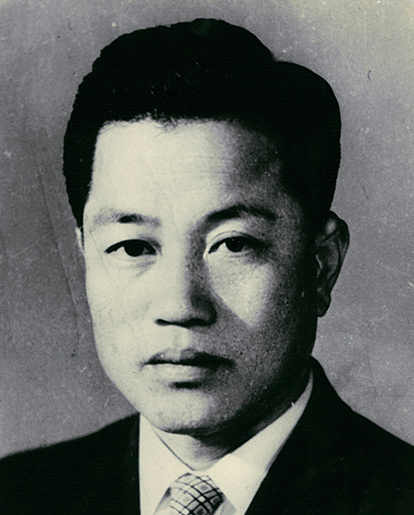
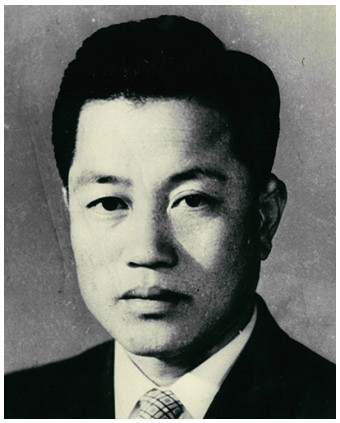
역대 동창회장 사진-이름 재매칭 및 인물 단위 그룹화, 공간구상 벽 그룹 정리
- 동창회장.pdf 원본 기준으로 c04부터 어긋나 있던 동창회장 초상 27장 재크롭
- 역대 동창회 그리드를 PDF처럼 인물 단위로 묶어 표시(재임자 대수 합산: 조춘상 1,5대 등)
- 공간구상: 벽3 레퍼런스에 자재 서랍 추가, 벽4는 스케치업만(레퍼런스 없음)

Changed region(s): [[0.0, 0.0, 1.0, 1.0]]

diff --git a/js/alumni.js b/js/alumni.js
@@ -96,6 +96,7 @@ async function init() {
   renderUserLetters("juniors");
   renderUserLetters("seniors");
   bindLetters();
+  renderSpace();
   window.addEventListener("resize", () => {
     clearTimeout(window._scCapT);
     window._scCapT = setTimeout(() => {
@@ -120,6 +121,8 @@ function bindNav() {
       if (vm) vm.hidden = b.dataset.view !== "memory";
       const mb = $("#view-mailbox");
       if (mb) mb.hidden = b.dataset.view !== "mailbox";
+      const vs = $("#view-space");
+      if (vs) vs.hidden = b.dataset.view !== "space";
       if (b.dataset.view === "memory") requestAnimationFrame(positionScCaption);
       window.scrollTo({ top: 0, behavior: "smooth" });
     })
@@ -289,23 +292,40 @@ function renderChairs() {
   const g = $("#chairsGrid");
   const offByTerm = {};
   OFFICERS.forEach((o) => (offByTerm[o.term] = o));
-  g.innerHTML = CHAIRS.map((c) => {
-    const img = c.photo
-      ? `<img class="chair-photo" src="${esc(c.photo)}" alt="${esc(c.name)}" loading="lazy" onerror="this.style.visibility='hidden'">`
-      : `<span class="chair-photo placeholder">${esc(c.name.slice(0, 1))}</span>`;
-    const o = offByTerm[c.term] || {};
-    const tipRow = (label, val) => (val ? `<div class="tip-row"><b>${label}</b> ${esc(val)}</div>` : "");
+  // 원본 PDF처럼 인물 단위로 묶는다(조춘상 1·5대, 박붕배 3·6대 등 재임자는 한 칸).
+  const groups = [];
+  const byKey = {};
+  CHAIRS.forEach((c) => {
+    const key = c.name + "|" + c.grad + "|" + (c.photo || "");
+    if (!byKey[key]) { byKey[key] = { name: c.name, grad: c.grad, photo: c.photo, items: [] }; groups.push(byKey[key]); }
+    byKey[key].items.push(c);
+  });
+  const tipRow = (label, val) => (val ? `<div class="tip-row"><b>${label}</b> ${esc(val)}</div>` : "");
+  g.innerHTML = groups.map((p) => {
+    const items = p.items.slice().sort((a, b) => a.term - b.term);
+    const termLabel = items.map((c) => c.term).join(",") + "대";
+    const img = p.photo
+      ? `<img class="chair-photo" src="${esc(p.photo)}?v=2" alt="${esc(p.name)}" loading="lazy" onerror="this.style.visibility='hidden'">`
+      : `<span class="chair-photo placeholder">${esc(p.name.slice(0, 1))}</span>`;
+    let tipBody = "";
+    items.forEach((c) => {
+      const o = offByTerm[c.term] || {};
+      tipBody +=
+        `<div class="tip-sub">제${c.term}대 · ${esc(c.period)}</div>` +
+        tipRow("회장", o.chairman || c.name + "(" + c.grad + ")") +
+        tipRow("부회장", (o.vice || []).join(", ")) +
+        tipRow("감사", (o.aud || []).join(", "));
+    });
     const tip =
-      `<div class="chair-tip"><div class="tip-head">제${c.term}대 · ${esc(c.period)}</div>` +
-      tipRow("회장", o.chairman || c.name + "(" + c.grad + ")") +
-      tipRow("부회장", (o.vice || []).join(", ")) +
-      tipRow("감사", (o.aud || []).join(", ")) +
+      `<div class="chair-tip"><div class="tip-head">제${termLabel} · ${esc(p.name)}(${esc(p.grad)})</div>` +
+      tipBody +
       `</div>`;
+    const periodLine = items.map((c) => c.period).join(" / ");
     return (
       `<div class="chair-card" tabindex="0">${img}` +
-      `<span class="chair-term">제${c.term}대 · ${esc(c.grad)} 졸업</span>` +
-      `<span class="chair-name">${esc(c.name)}</span>` +
-      `<span class="chair-period">${esc(c.period)}</span>` +
+      `<span class="chair-term">제${termLabel} · ${esc(p.grad)} 졸업</span>` +
+      `<span class="chair-name">${esc(p.name)}</span>` +
+      `<span class="chair-period">${esc(periodLine)}</span>` +
       tip +
       `</div>`
     );
@@ -1340,6 +1360,51 @@ function renderActivities(q) {
               `</div>`
           )
           .join("");
+}
+
+/* 공간구상 — 실물전시 형식(벽별 그룹: 제목 + 스케치업 구성안 + 레퍼런스 그리드, 클릭=라이트박스) */
+function renderSpace() {
+  const root = $("#spaceGrid"); if (!root) return;
+  const P = "img/space/";
+  const walls = [
+    { title: "벽1 · 우리의 기억", rep: [1], refs: [2, 3, 4] },
+    { title: "벽2 · 동문 편지함", rep: [5, 6], refs: [7, 8, 9] },
+    { title: "벽3 · 자랑스러운 부고인 · 천하부고 동창회", rep: [10, 11], refs: [12, 13, 14, 15] },
+    { title: "벽4 · 도너스 월", rep: [16], refs: [] }
+  ];
+  const lbItems = [];
+  const add = (src) => { lbItems.push(src); return lbItems.length - 1; };
+  const sketchHTML = (g) => g.rep.map((p) => { const i = add(P + p + ".jpg"); return '<button class="ex-rep-img" type="button" data-i="' + i + '"><img src="' + P + p + '.jpg" alt="' + esc(g.title) + ' 구성안" loading="lazy"></button>'; }).join("");
+  const refsHTML = (g) => g.refs.map((p) => { const i = add(P + p + ".jpg"); return '<button class="ex-ref-img" type="button" data-i="' + i + '"><img src="' + P + p + '.jpg" alt="레퍼런스" loading="lazy"></button>'; }).join("");
+  let html = "";
+  walls.forEach((g, gi) => {
+    html += '<section class="ex-group">';
+    html += '<h2 class="ex-gtitle"><span class="ex-gno">' + (gi + 1) + '</span>' + esc(g.title) + '</h2>';
+    if (g.refs.length) {
+      html += '<div class="space-cols">';
+      html += '<div class="space-col"><p class="ex-reflabel" style="margin-top:0">스케치업 구성안</p><div class="sp-sketch">' + sketchHTML(g) + '</div></div>';
+      html += '<div class="space-col"><p class="ex-reflabel" style="margin-top:0">레퍼런스</p><div class="ex-refs sp-refs">' + refsHTML(g) + '</div></div>';
+      html += '</div>';
+    } else {
+      html += '<p class="ex-reflabel" style="margin-top:0">스케치업 구성안</p><div class="ex-rep">' + sketchHTML(g) + '</div>';
+    }
+    html += '</section>';
+  });
+  root.innerHTML = html;
+  // 라이트박스
+  const lb = $("#spaceLightbox"), lbImg = lb ? lb.querySelector(".lg-lb-img") : null;
+  let cur = 0;
+  const show = () => { cur = (cur % lbItems.length + lbItems.length) % lbItems.length; if (lbImg) lbImg.src = lbItems[cur]; };
+  const openLB = (i) => { cur = i; show(); if (lb) { lb.hidden = false; document.body.style.overflow = "hidden"; } };
+  const closeLB = () => { if (lb) lb.hidden = true; if (!$("#vidLightbox") || $("#vidLightbox").hidden) document.body.style.overflow = ""; };
+  root.addEventListener("click", (e) => { const b = e.target.closest("[data-i]"); if (b) openLB(+b.dataset.i); });
+  if (lb) {
+    lb.querySelector(".lg-lb-close").addEventListener("click", closeLB);
+    lb.querySelector(".lg-lb-prev").addEventListener("click", (e) => { e.stopPropagation(); cur--; show(); });
+    lb.querySelector(".lg-lb-next").addEventListener("click", (e) => { e.stopPropagation(); cur++; show(); });
+    lb.addEventListener("click", (e) => { if (e.target === lb) closeLB(); });
+    document.addEventListener("keydown", (e) => { if (lb.hidden) return; if (e.key === "Escape") closeLB(); else if (e.key === "ArrowRight") { cur++; show(); } else if (e.key === "ArrowLeft") { cur--; show(); } });
+  }
 }
 
 document.addEventListener("DOMContentLoaded", init);

diff --git a/proud.html b/proud.html
@@ -7,7 +7,7 @@
   <meta name="description" content="서울사대부고 '자랑스러운 부고인' 역대 수상자와 천하부고 동창회">
   <link rel="preconnect" href="https://cdn.jsdelivr.net" crossorigin>
   <link rel="stylesheet" href="https://cdn.jsdelivr.net/gh/orioncactus/pretendard@v1.3.9/dist/web/static/pretendard.min.css">
-  <link rel="stylesheet" href="css/style.css?v=176">
+  <link rel="stylesheet" href="css/style.css?v=189">
 </head>
 <body class="alumni-page">
   <header class="site-header">
@@ -17,7 +17,7 @@
     </div>
     <div class="wrap header-inner">
       <div class="header-left">
-        <h1>자랑스러운 부고인</h1>
+        <h1>인물사</h1>
       </div>
     </div>
   </header>
@@ -29,6 +29,7 @@
         <button class="tab" data-view="alumni" role="tab" aria-selected="false">천하부고 동창회</button>
         <button class="tab" data-view="memory" role="tab" aria-selected="false">우리의 기억</button>
         <button class="tab" data-view="mailbox" role="tab" aria-selected="false">동문 편지함</button>
+        <button class="tab" data-view="space" role="tab" aria-selected="false">공간구상</button>
       </div>
     </div>
   </section>
@@ -169,6 +170,13 @@
     </section>
   </main>
 
+  <!-- 공간구상 -->
+  <main class="wrap view" id="view-space" hidden>
+    <h2 class="sub-h">공간구상</h2>
+    <p class="section-intro">인물사 전시 공간의 구성안과 참고 레퍼런스입니다. 사진을 누르면 크게 볼 수 있습니다.</p>
+    <div id="spaceGrid"></div>
+  </main>
+
   <div class="wrap">
     <section class="up-sec" data-upkey="proud" aria-label="자료 추가">
       <div class="up-head">
@@ -217,6 +225,14 @@
     <span class="ml-count"></span>
   </div>
 
+  <!-- 공간구상 라이트박스 -->
+  <div class="lg-lb" id="spaceLightbox" hidden>
+    <button class="lg-lb-close" type="button" aria-label="닫기">×</button>
+    <button class="lg-lb-nav lg-lb-prev" type="button" aria-label="이전">‹</button>
+    <div class="lg-lb-stage"><img class="lg-lb-img" alt=""></div>
+    <button class="lg-lb-nav lg-lb-next" type="button" aria-label="다음">›</button>
+  </div>
+
   <!-- 편지쓰기 -->
   <div id="letterModal" class="modal" hidden>
     <div class="modal-backdrop" data-lclose></div>
@@ -243,7 +259,7 @@
     <div class="vl-frame"></div>
   </div>
 
-  <script src="js/alumni.js?v=182"></script>
+  <script src="js/alumni.js?v=189"></script>
   <script src="js/uploader.js?v=176"></script>
 </body>
 </html>

diff --git a/css/style.css b/css/style.css
@@ -486,6 +486,14 @@ body.landing { background: var(--paper); }
   .lg-lb-nav { width: 38px; height: 54px; font-size: 1.5rem; }
 }
 
+/* 공간구상(인물사) — 벽별 그룹: 좌측 스케치업 / 우측 레퍼런스 */
+.space-cols { display: grid; grid-template-columns: 1fr 1fr; gap: 30px; align-items: start; margin-top: 6px; }
+.space-col { min-width: 0; }
+.sp-sketch { display: flex; flex-direction: column; gap: 12px; }
+.sp-sketch .ex-rep-img img { width: 100%; height: auto; display: block; }
+.sp-refs { grid-template-columns: repeat(auto-fill, minmax(120px, 1fr)); }
+@media (max-width: 620px) { .space-cols { grid-template-columns: 1fr; gap: 20px; } }
+
 /* 실물전시 */
 .ex-overview { margin: 0 0 48px; }
 .ex-gtitle-ov { display: block; }
@@ -1078,5 +1086,7 @@ body.landing { background: var(--paper); }
 }
 .chair-card:hover .chair-tip, .chair-card:focus .chair-tip, .chair-card.tip-open .chair-tip { display: block; }
 .tip-head { font-weight: 800; margin-bottom: 7px; padding-bottom: 5px; border-bottom: 1px solid var(--line); font-size: .82rem; }
+.tip-sub { font-weight: 700; color: var(--ink); font-size: .74rem; margin: 7px 0 3px; }
+.tip-sub:first-of-type { margin-top: 0; }
 .tip-row { line-height: 1.55; margin-bottom: 3px; color: #333; }
 .tip-row b { color: var(--muted); font-weight: 700; margin-right: 5px; font-size: .72rem; }
